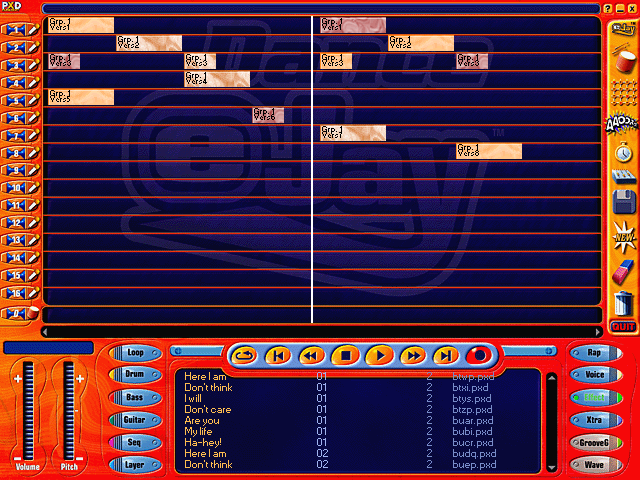
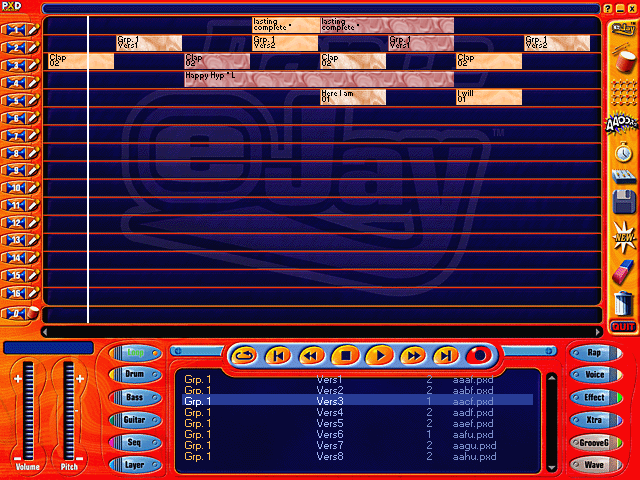
eJay 2: browser inside its bezel, a guarded rebuild, and crashes that say where
Three things reported from actually using it.

The browser's top and bottom rows were drawn on the panel frame.
G_SAMPLE_WINDOW is the panel including its bezel, so the list needed insetting
- 7 pixels at the top, 6 at the bottom - and the clip region with it. Eight
rows, none of them cut.

Dragging fell over. The likeliest cause is rebuild_arrangement: AStop asks the
mixer to stop, it does not wait for it, and ACloseAll then frees the track
entries out from under a pass that may still be running. There is now a short
wait between the two. A fixed wait is a ponytail; a handshake would be better
if the engine has one.

And since a crash inside a DLL nobody has source for is only useful if it says
where, an unhandled-exception filter now names the module and the offset into
it - enough to find the function in the same disassembly everything else here
came from. --dragtest also now exercises the browser-to-grid gesture, not just
the block drag.

The demo arrangement was barely audible because it took indices 0..7 of group
0, which happen to be nine variations of the same quiet pad. It is now seeded
across the groups by name - a four-bar bed, two-bar loops, claps on the four,
a pad and a vocal - and resolved against the index after it loads, so the
blocks get the samples' real lengths too.

Also: the tick loop pumps messages twice, because RTimer plus the drawing costs
about as long as the sleep and once a frame left the window feeling stuck.
[…]

diff --git a/host32/ejay2.c b/host32/ejay2.c
@@ -427,13 +427,39 @@ static int load_mix_names(const char *path)
  * GFX_SampleZeichne draws the same list into the same lanes, so what is on the
  * screen is what is playing rather than a picture of what might be. */
 typedef struct { int lane, bar, bars, lib; } SLOT;
-static SLOT g_song[64] = {   /* room to add more by hand from the browser */
-    { 0,  0, 4, 0 }, { 0,  8, 4, 0 }, { 1,  2, 4, 1 }, { 1, 10, 4, 1 },
-    { 2,  0, 2, 2 }, { 2,  4, 2, 2 }, { 2,  8, 2, 2 }, { 2, 12, 2, 2 },
-    { 3,  4, 4, 3 }, { 4,  0, 8, 4 }, { 5,  6, 4, 5 }, { 6,  8, 4, 6 },
-    { 7, 12, 4, 7 },
+static SLOT g_song[64];
+static int  g_song_n;
+
+/* The arrangement as written rather than as indexed: a lane, a bar, and which
+ * sound group to take the sample from. Resolving it after the index is read
+ * means the blocks get the samples' real lengths, and picking across groups
+ * means the demo is a beat with something over it rather than nine variations
+ * of the same pad - which is what indices 0..7 of group 0 happen to be, and why
+ * it was barely audible. */
+typedef struct { int lane, bar, grp, idx; } SEED;
+static const SEED g_seed[] = {
+    { 0,  0, 3, 0 }, { 0,  8, 3, 0 },          /* "lasting / complete", 4 bars */
+    { 1,  2, 0, 0 }, { 1,  6, 0, 1 },          /* "Grp. 1" loops, 2 bars       */
+    { 1, 10, 0, 0 }, { 1, 14, 0, 1 },
+    { 2,  0, 5, 2 }, { 2,  4, 5, 2 },          /* claps on the four            */
+    { 2,  8, 5, 2 }, { 2, 12, 5, 2 },
+    { 3,  4, 6, 1 },                           /* "Happy Hyp" pad, 8 bars      */
+    { 4,  8, 8, 0 }, { 4, 12, 8, 2 },          /* a vocal, and an answer       */
 };
-static int g_song_n = 13;    /* how many of those are real, so far */
+
+static void build_song(void)
+{
+    g_song_n = 0;
+    for (int i = 0; i < (int)(sizeof(g_seed) / sizeof(g_seed[0])); i++) {
+        const SEED *sd = &g_seed[i];
+        if (sd->grp >= g_grp_n || sd->idx >= g_grp_count[sd->grp]) continue;
+        int lib = g_grp_start[sd->grp] + sd->idx;
+        if (lib >= g_lib_n) continue;
+        SLOT *sl = &g_song[g_song_n++];
+        sl->lane = sd->lane; sl->bar = sd->bar;
+        sl->lib = lib; sl->bars = g_lib[lib].bars;
+    }
+}
 
 /* ---- eJay's own control layout --------------------------------------------
  * `K_640` and its siblings are the coordinate table: a control name, then ten
@@ -584,9 +610,15 @@ static void browser_geometry(void)
     if (c && c->w > 0) { g_scroll_x = c->x; g_scroll_w = c->w; }
 }
 
+/* G_SAMPLE_WINDOW is the panel including its bezel, and text drawn at its very
+ * top and bottom edges sits on the frame. Inset by the bezel. */
+#define BEZEL_T 7
+#define BEZEL_B 6
+#define BEZEL_L 6
+
 static int browser_rows(void)
 {
-    return (int)(g_browse.bottom - g_browse.top - 4) / ROW_H;
+    return (int)(g_browse.bottom - g_browse.top - BEZEL_T - BEZEL_B) / ROW_H;
 }
 
 /* Draw every placed sample into the lanes. Called once at start-up and again
@@ -640,13 +672,15 @@ static void draw_browser(HDC dst)
     SetBkMode(dst, TRANSPARENT);
     /* Clip to the panel: a row that does not fit belongs nowhere, and without
      * this the top one is drawn over the transport bar above it. */
-    HRGN clip = CreateRectRgn((int)g_browse.left, (int)g_browse.top,
-                              (int)g_browse.right, (int)g_browse.bottom);
+    HRGN clip = CreateRectRgn((int)g_browse.left + BEZEL_L,
+                              (int)g_browse.top + BEZEL_T - 1,
+                              (int)g_browse.right - BEZEL_L,
+                              (int)g_browse.bottom - BEZEL_B + 1);
     SelectClipRgn(dst, clip);
 
     for (int r = 0; r < rows && g_scroll + r < gc; r++) {
         int idx = gs + g_scroll + r;
-        int y = (int)g_browse.top + 4 + r * ROW_H;
+        int y = (int)g_browse.top + BEZEL_T + r * ROW_H;
         const SAMPLE *sm = &g_lib[idx];
         if (idx == g_sel) {
             RECT sel = { (int)g_browse.left + 4, y - 1, (int)g_browse.right - 6, y + ROW_H - 1 };
@@ -738,7 +772,12 @@ static void rebuild_arrangement(void)
     fn_i_v ACloseAll = (fn_i_v) GetProcAddress(g_eng, "ACloseAll");
     fn_i_v AStop     = (fn_i_v) GetProcAddress(g_eng, "AStop");
     fn_i_i AStart    = (fn_i_i) GetProcAddress(g_eng, "AStart");
-    if (AStop)     AStop();
+    /* AStop asks the mixer to stop, it does not wait for it. Freeing the track
+     * entries out from under a pass that is still running is a crash, so give
+     * the audio thread a moment to come out before ACloseAll takes them away.
+     * ponytail: a fixed wait. A handshake would be better if one exists. */
+    if (AStop) AStop();
+    Sleep(40);
     if (ACloseAll) ACloseAll();
     for (int i = 0; i < g_song_n && g_aplay; i++) {
         const SLOT *sl = &g_song[i];
@@ -833,7 +872,7 @@ static int browser_input(HWND h, UINT m, WPARAM w, LPARAM l)
             return 1;
         }
         if (x >= (int)g_browse.left && x < (int)g_browse.right && y >= (int)g_browse.top && y < (int)g_browse.bottom) {
-            int r = (y - (int)g_browse.top - 4) / ROW_H;
+            int r = (y - (int)g_browse.top - BEZEL_T) / ROW_H;
             int idx = g_grp_start[g_group] + g_scroll + r;
             if (r >= 0 && r < browser_rows() &&
                 g_scroll + r < g_grp_count[g_group] && idx < g_lib_n) {
@@ -1079,13 +1118,39 @@ static int load_bitmap(fn_i_p ALoad, ALOADREC *rec, const char *name)
     return rec->hdc != 0;
 }
 
+/* A crash in a DLL nobody has source for is only useful if it says where. Name
+ * the module and the offset into it, which is enough to find the function in
+ * the same disassembly everything else here came out of. */
+static LONG WINAPI report_fault(EXCEPTION_POINTERS *ep)
+{
+    void *pc = (void *)ep->ExceptionRecord->ExceptionAddress;
+    HMODULE mod = NULL;
+    char name[MAX_PATH] = "?";
+    GetModuleHandleExA(GET_MODULE_HANDLE_EX_FLAG_FROM_ADDRESS |
+                       GET_MODULE_HANDLE_EX_FLAG_UNCHANGED_REFCOUNT,
+                       (LPCSTR)pc, &mod);
+    if (mod) GetModuleFileNameA(mod, name, sizeof(name));
+    const char *tail = strrchr(name, '\\');
+    printf("\n!! crash: exception %08lX at %p\n",
+           (unsigned long)ep->ExceptionRecord->ExceptionCode, pc);
+    printf("   in %s + %08lX\n", tail ? tail + 1 : name,
+           mod ? (unsigned long)((char *)pc - (char *)mod) : 0ul);
+    if (ep->ExceptionRecord->ExceptionCode == EXCEPTION_ACCESS_VIOLATION)
+        printf("   %s address %p\n",
+               ep->ExceptionRecord->ExceptionInformation[0] ? "writing" : "reading",
+               (void *)ep->ExceptionRecord->ExceptionInformation[1]);
+    fflush(stdout);
+    return EXCEPTION_EXECUTE_HANDLER;
+}
+
 int main(int argc, char **argv)
 {
+    SetUnhandledExceptionFilter(report_fault);
     setvbuf(stdout, NULL, _IONBF, 0);   /* a crash must not eat the trail */
     int ticks = 120, volume = 20, atyp = 3, dplay = 0, chan = 9;
     int intro = 1, scrcap = 0, frames = 0, verbose = 0, main_screen = 0, samples = 0;
     int seq = 0, trace_files = 0, song = 0, selftest = 0;
-    int probe_ms = -1, probe_key = 0, dragtest = 0, first_minus1 = 0, no_init = 0;
+    int probe_ms = -1, probe_key = 0, dragtest = 0, first_minus1 = 0, no_init = 0, flat = 0, limit = 0;
     const char *libdir = NULL;
     /* The SAMPLE block of FONTS reads: Small Fonts / normal / 10 / 1 / -1 / 6. */
     int fontsize = 10, face_a = 1, face_b = -1, face_c = 6;
@@ -1114,6 +1179,8 @@ int main(int argc, char **argv)
         else if (!strcmp(argv[i], "--refresh") && i + 1 < argc) probe_ms = atoi(argv[++i]);
         else if (!strcmp(argv[i], "--probekey") && i + 1 < argc) probe_key = atoi(argv[++i]);
         else if (!strcmp(argv[i], "--dragtest")) dragtest = 1;
+        else if (!strcmp(argv[i], "--flat") && i + 1 < argc) flat = atoi(argv[++i]);
+        else if (!strcmp(argv[i], "--limit") && i + 1 < argc) limit = atoi(argv[++i]);
         else if (!strcmp(argv[i], "--init1")) first_minus1 = 1;
         else if (!strcmp(argv[i], "--no-introinit")) no_init = 1;
         else if (!strcmp(argv[i], "--group") && i + 1 < argc) g_group = atoi(argv[++i]);
@@ -1137,9 +1204,12 @@ int main(int argc, char **argv)
     printf("  %s at %p\n", ENGINE, (void *)g_eng);
     if (g_gfx) printf("  %s at %p\n", GFXDLL, (void *)g_gfx);
 
-    if (libdir)
+    if (libdir) {
         printf("  sample library             -> %d samples under %s\n",
                load_index(libdir), libdir);
+        build_song();
+        printf("  arrangement                -> %d slots\n", g_song_n);
+    }
     meter_open();
     clamp_session(volume);
 
@@ -1391,9 +1461,6 @@ int main(int argc, char **argv)
         /* Keep the handles: the grid is redrawn whenever a sample is added. */
         g_zeich = Zeich; g_griddc = griddc;
         g_tex[0] = tex[0]; g_tex[1] = tex[1]; g_tex[2] = tex[2];
-        for (int i = 0; i < g_song_n; i++)
-            if (g_song[i].lib >= 0 && g_song[i].lib < g_lib_n)
-                g_song[i].bars = g_lib[g_song[i].lib].bars;
         draw_blocks(g_canvas);
         printf("  blocks drawn into the grid -> %d\n", g_song_n);
 
@@ -1500,12 +1567,17 @@ int main(int argc, char **argv)
              * A bar at 120 BPM is 88,200 of them. */
             static short st[64];
             int placed = 0;
-            for (int i = 0; i < g_song_n && i < 64; i++) {
+            for (int i = 0; i < g_song_n && i < 64 && (!limit || i < limit); i++) {
                 const SLOT *sl = &g_song[i];
                 if (sl->lib < 0 || sl->lib >= g_lib_n) continue;
                 st[i] = 0x63;
+                /* flat==1 pins every sample to track 0 at position 0, which
+                 * is the shape that plays at full scale when a single sample is
+                 * placed. If the arrangement is quiet and this is not, the
+                 * fault is in the track or the position, not the samples. */
                 APlay(0, 0, 0, 0, 0, &st[i], g_lib[sl->lib].path,
-                      sl->lane, sl->bar * 88200, 0, 0, 0x100);
+                      flat ? 0 : sl->lane,
+                      flat ? 0 : sl->bar * 88200, 0, 0, 0x100);
                 placed++;
             }
             printf("  APlay x%d across %d tracks\n", placed, g_song_n);
@@ -1591,6 +1663,19 @@ int main(int argc, char **argv)
             browser_input(wnd, WM_LBUTTONUP, 0, MAKELPARAM(x0 + 6 * bw, y));
             printf("  dragtest: now at bar %d (expected %d)\n",
                    g_song[0].bar, 6);
+
+            /* And the gesture that crashed: press on a browser row, drag up
+             * into the track grid, release there. Nothing places a sample that
+             * way yet, but it must not fall over either. */
+            int by = (int)g_browse.top + BEZEL_T + 2 * ROW_H + 4;
+            int bx = (int)g_browse.left + 40;
+            browser_input(wnd, WM_LBUTTONDOWN, 0, MAKELPARAM(bx, by));
+            for (int k = 1; k <= 8; k++)
+                browser_input(wnd, WM_MOUSEMOVE, 0,
+                              MAKELPARAM(bx + k * 20, by - k * 40));
+            browser_input(wnd, WM_LBUTTONUP, 0,
+                          MAKELPARAM(GRID_X0 + 200, GRID_Y0 + 40));
+            printf("  dragtest: browser-to-grid drag survived\n");
         }
         if (seq && RTimer) RTimer();
         if (seq) mute_unless_mixing(*(short *)((char *)g_eng + 0x3AC68));
@@ -1676,6 +1761,10 @@ int main(int argc, char **argv)
             ReleaseDC(wnd, dc);
             g_dirty = 0;
         }
+        /* RTimer and the per-frame drawing together cost about as long as the
+         * sleep does, so pumping once a frame leaves the window feeling stuck
+         * under the mouse. Pump again now the work is done. */
+        pump_messages();
         float p = meter_peak();
         if (p > peak) peak = p;
         if (env_n < (int)(sizeof(env) / sizeof(env[0]))) env[env_n++] = p;

diff --git a/docs/EJAY2.md b/docs/EJAY2.md
@@ -343,6 +343,33 @@ them. `--no-introinit` skips the init and gets the old behaviour - the system
 check screen painted once, then the stall - which is where the screenshot above
 came from.
 
+## What feeds the intro: nothing, and that is the point
+
+There is no value setter in the graphics DLL. The whole intro surface is
+`GFX_IntroDoScrCapture`, `GFX_IntroInitScreen`, `GFX_IntroInitScreenCopy`,
+`GFX_IntroInitLeds`, `GFX_IntroInitText`, `GFX_IntroInitSplash`,
+`GFX_IntroShowSplash`, `GFX_IntroSetKey`, `GFX_IntroRefresh` and
+`GFX_IntroClose`. No `SetProgress`, no `SetLevel`, no per-element value at all -
+and `Dancejay.exe` has exactly one `GFX_IntroSetKey` call site, inside the loop
+that walks the coordinate table.
+
+So the elements animate themselves off the timestamp `GFX_IntroRefresh` is
+given. The progress bars fill because time passed, not because anybody told
+them a percentage. That is why fixing the first call fixed the timeline: it was
+never waiting to be fed, it was walking into an animation it had not been told
+to start.
+
+`GFX_AnimationPhase` is not it either - its eleven arguments come off a
+0x1CC-stride record array in the application, and its two call sites are in the
+workspace, not the intro.
+
+What is still wrong is separate: after the correct init the per-frame path draws
+(13 BitBlts and 447 PatBlts over 400 frames) and the result stays black. The
+next suspect is `GFX_IntroInitScreenCopy`. Dancejay calls it two ways - with the
+screen's own DC and a null pixel pointer when the display is deeper than 8bpp,
+and otherwise with a *second* bitmap loaded into its own record at `Me+0x5E8`.
+This host only ever does the first.
+
 ## GFX_IntroSetKey stores a rect per name
 
 Eleven arguments: a name and ten numbers. The first four are **x, y, w, h** -
